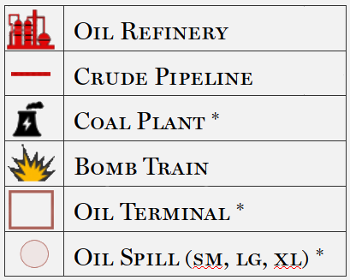
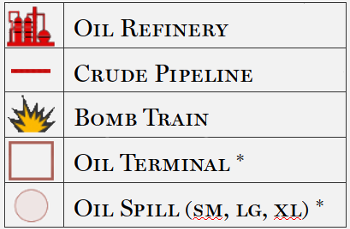
intro text

Changed region(s): [[0.0, 0.0, 1.0, 1.0]]

diff --git a/src/views/petropolis/PetropolisPipelines.vue b/src/views/petropolis/PetropolisPipelines.vue
@@ -10,6 +10,10 @@
 
     <p style="font-size:120%;"><strong><em>From the Tars Sands to the Gulf of Mexico, the pipeline network pumps out a future of melting icecaps, sea-level rise, drought and forest fires. For the oilmen, every city is "Petropolis."</em></strong></p>
 
+    <p>This map reveals the inner workings of Petropolis at the national, regional and local levels. It focuses on crude oil pipelines and refineries, but it also includes sections on coal and natural gas. To navigate through the different sections use the buttons at the lower left corner, and also at the bottom of each page in the center.</p>
+
+    <p>Every feature delivers information at a click, and a visual legend can be accessed below the sidebar texts. Zoom in far enough and you'll actually see the refineries and generating plants, through a "spyglass" that opens up to a satellite image. The point is to build an awareness of fossil-fuel infrastructure and its damaging effects, while at the same time highlighting the many forms of critique, protest and political action that are spearheading an urgently needed change in our energy system&mdash;and in our society as a whole.</p>
+
     <p>The collapse of climate and ecosystems is accelerating. We are nearly out of time. Decades of protests, petitions and donations to environmental groups have done nothing to slow catastrophic change. Food and water shortages, resource wars, economic breakdown, and millions of new climate refugees are on the horizon. Human survival itself is at risk as temperatures continue to rise.</p>
 
     <p>Extinction Rebellion uses nonviolent direct actions and peaceful civil disobedience to disrupt business-as-usual in order to compel governments to act now to save a livable climate.</p>
